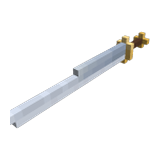
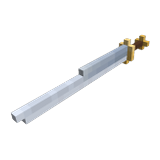
Codex renders: keep the whole model in frame when perspective pushes it off-centre
The tight fit sized the projected box to the frame but centred the model's 3D
centre, so the nearer, larger end of long models ran off the edge and was cut.
Recentre the box by whole pixels when it crosses the margin; models that
already fit render byte-identical. Bumps the render cache keys and replaces
the three golden thumbnails Pillow had clipped.

Changed region(s): [[0.0625, 0.1875, 0.9375, 0.8125], [0.25, 0.6562, 0.3438, 0.7188]]

diff --git a/native/kiwi-core/src/voxel/raster.rs b/native/kiwi-core/src/voxel/raster.rs
@@ -71,29 +71,30 @@ fn fit_scale(ext: V3) -> f64 {
     0.1057f64.exp() * d[0].powf(-0.8502) * d[1].powf(-0.0710) * d[2].powf(-0.0459)
 }
 
-/// `_fit_tight`: the scale at which the projected box fills the frame.
-fn fit_tight(cam: &Camera, center: V3, mn: V3, mx: V3, h: f64, margin: f64) -> f64 {
-    let mut corners = Vec::with_capacity(8);
+/// The screen box `(umin, umax, vmin, vmax)` of the model's bounding box at scale `s`.
+fn projected(cam: &Camera, center: V3, mn: V3, mx: V3, s: f64) -> (f64, f64, f64, f64) {
+    let (mut umin, mut umax, mut vmin, mut vmax) = (f64::INFINITY, f64::NEG_INFINITY, f64::INFINITY, f64::NEG_INFINITY);
     for a in [mn[0], mx[0] + 1.0] {
         for b in [mn[1], mx[1] + 1.0] {
             for c in [mn[2], mx[2] + 1.0] {
-                corners.push([a, b, c]);
+                let ([u, v], _) = cam.project([(a - center[0]) * s, (b - center[1]) * s, (c - center[2]) * s]);
+                umin = umin.min(u);
+                umax = umax.max(u);
+                vmin = vmin.min(v);
+                vmax = vmax.max(v);
             }
         }
     }
+    (umin, umax, vmin, vmax)
+}
+
+/// `_fit_tight`: the scale at which the projected box fills the frame.
+fn fit_tight(cam: &Camera, center: V3, mn: V3, mx: V3, h: f64, margin: f64) -> f64 {
     let target = h - 2.0 * margin;
     let (mut lo, mut hi) = (1e-4, 50.0);
     for _ in 0..40 {
         let s = (lo + hi) / 2.0;
-        let (mut umin, mut umax, mut vmin, mut vmax) =
-            (f64::INFINITY, f64::NEG_INFINITY, f64::INFINITY, f64::NEG_INFINITY);
-        for c in &corners {
-            let ([u, v], _) = cam.project([(c[0] - center[0]) * s, (c[1] - center[1]) * s, (c[2] - center[2]) * s]);
-            umin = umin.min(u);
-            umax = umax.max(u);
-            vmin = vmin.min(v);
-            vmax = vmax.max(v);
-        }
+        let (umin, umax, vmin, vmax) = projected(cam, center, mn, mx, s);
         if (umax - umin).max(vmax - vmin) <= target {
             lo = s;
         } else {
@@ -166,7 +167,7 @@ pub fn render_at(cells: &[Rendered], dim: usize, tight: bool, az: f64, el: f64) 
         return None;
     }
     let h = dim * SS;
-    let cam = Camera::new(dim, az, el);
+    let mut cam = Camera::new(dim, az, el);
     let (mut mn, mut mx) = ([f64::INFINITY; 3], [f64::NEG_INFINITY; 3]);
     for c in cells {
         for (k, v) in [c.x, c.y, c.z].into_iter().enumerate() {
@@ -176,7 +177,16 @@ pub fn render_at(cells: &[Rendered], dim: usize, tight: bool, az: f64, el: f64) 
     }
     let center = [0, 1, 2].map(|k| (mn[k] + mx[k] + 1.0) / 2.0);
     let s = if tight {
-        fit_tight(&cam, center, mn, mx, h as f64, (4 * SS) as f64)
+        let (hf, margin) = (h as f64, (4 * SS) as f64);
+        let s = fit_tight(&cam, center, mn, mx, hf, margin);
+        // Perspective pushes the box off-centre; recentre by whole pixels so models that fit stay identical.
+        let (u0, u1, v0, v1) = projected(&cam, center, mn, mx, s);
+        if u0 < margin || v0 < margin || u1 > hf - margin || v1 > hf - margin {
+            let px = |d: f64| (d / SS as f64).round() * SS as f64;
+            cam.cx += px((hf - u0 - u1) / 2.0);
+            cam.cy += px((hf - v0 - v1) / 2.0);
+        }
+        s
     } else {
         fit_scale([0, 1, 2].map(|k| mx[k] - mn[k] + 1.0))
     };

diff --git a/native/kiwi-server/src/blueprints/tests.rs b/native/kiwi-server/src/blueprints/tests.rs
@@ -275,7 +275,8 @@ fn rgba(png: &[u8]) -> (u32, u32, Vec<u8>) {
     (img.width, img.height, img.pixels)
 }
 
-/// The fixtures come out byte-identical to Pillow's PNGs. On other models a
+/// The fixtures come out byte-identical to Pillow's PNGs, except the sword and
+/// `s_glass_160`, which Pillow clipped and are rendered whole now. On other models a
 /// rare edge sample may land differently (numpy/BLAS can round the projection
 /// in the last bit), so the pixel tolerance is what has to hold.
 #[test]
@@ -409,8 +410,8 @@ fn small_helpers() {
     assert_eq!(cache::key_for_assembly("sig", "game:Foo"), "v3:a22:asm:sig:game:foo");
     assert!(cache::etag_matches(Some("W/\"a\", \"b\""), "\"a\""));
     assert!(!cache::etag_matches(Some("W/W/\"a\""), "\"a\""));
-    assert_eq!(super::render::blueprint_key("pts", "A\\B", 64), "render:bp:r2:pts:64:a/b");
-    assert_eq!(super::render::creature_key("live-us", "Prefabs\\X", 160), "render:rig:a22:s2:live-us:160:prefabs/x");
+    assert_eq!(super::render::blueprint_key("pts", "A\\B", 64), "render:bp:r3:pts:64:a/b");
+    assert_eq!(super::render::creature_key("live-us", "Prefabs\\X", 160), "render:rig:a22:s3:live-us:160:prefabs/x");
     assert_eq!(
         super::editor::disposition("Épée \"best\".blueprint", "edited.blueprint"),
         "attachment; filename=\"_p_e best.blueprint\"; filename*=UTF-8''%C3%89p%C3%A9e%20%22best%22.blueprint"

diff --git a/native/kiwi-core/src/voxel/tests.rs b/native/kiwi-core/src/voxel/tests.rs
@@ -27,6 +27,16 @@ fn raster_draws_and_culls() {
 }
 
 #[test]
+fn tight_fit_keeps_long_models_in_frame() {
+    let rod: Vec<Rendered> =
+        (0..45).map(|z| Rendered { x: 0, y: 0, z, r: 120, g: 70, b: 40, kind: 0, level: 255, spec: 0 }).collect();
+    let dim = 256;
+    let img = raster::render(&rod, dim, true).unwrap();
+    let edge = (0..dim).flat_map(|i| [(0, i), (dim - 1, i), (i, 0), (i, dim - 1)]);
+    assert!(edge.into_iter().all(|(y, x)| img[(y * dim + x) * 4 + 3] == 0));
+}
+
+#[test]
 fn lanczos_keeps_flat_colour() {
     let img = pillow::Image { w: 7, h: 5, px: [10, 20, 30, 255].repeat(35) };
     let out = pillow::resize_lanczos(&img, 3, 9);

diff --git a/native/kiwi-server/src/dressing/service.rs b/native/kiwi-server/src/dressing/service.rs
@@ -39,7 +39,7 @@ const STYLE_SLOTS: [&str; 3] = ["hat", "face", "weapon"];
 const RACE_SLOTS: [&str; 3] = ["head", "hair", "eyes"];
 const SLOT_COLOR: [(&str, &str); 2] = [("hair", "hair_color"), ("eyes", "eye_color")];
 const BROW_MAX_OFF: i64 = 24;
-pub const STILL_VERSION: &str = "d1";
+pub const STILL_VERSION: &str = "d2";
 pub const STILL_MIN_DIM: i64 = 32;
 pub const STILL_MAX_DIM: i64 = 512;
 

diff --git a/native/kiwi-server/src/blueprints/render.rs b/native/kiwi-server/src/blueprints/render.rs
@@ -20,8 +20,8 @@ use crate::{
     validation::{FromParams, Params, Query},
 };
 
-pub const RENDER_VERSION: &str = "r2";
-pub const STILL_VERSION: &str = "s2";
+pub const RENDER_VERSION: &str = "r3";
+pub const STILL_VERSION: &str = "s3";
 const BRANCHES: [&str; 2] = ["live-us", "pts"];
 const B64: base64::engine::GeneralPurpose = base64::engine::general_purpose::STANDARD;
 
